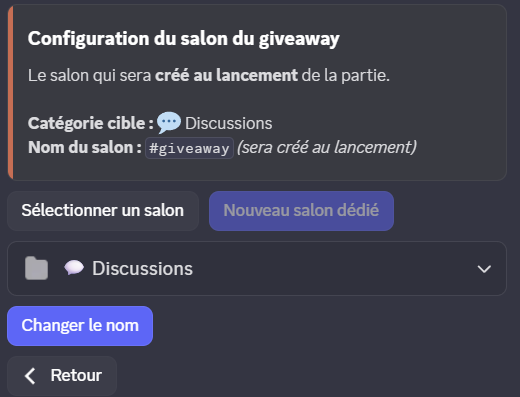
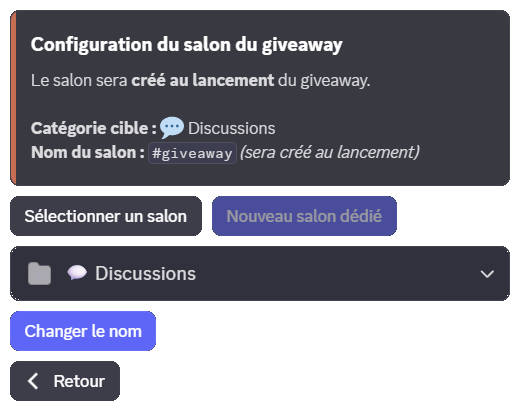
🔄 Replace image: create_new_channel.png

diff --git a/docs/2.modules/27.giveaways.md b/docs/2.modules/27.giveaways.md
@@ -192,9 +192,9 @@ Vous pouvez sélectionner un salon textuel du serveur existant pour l'envoi du g
 
 Vous pouvez demander à <@DraftBot> la création d'un salon lors de la publication du giveaway, en cliquant sur le bouton "Nouveau salon dédié".
 
-Vous pouvez alors définir le nom du salon ainsi que sa catégorie.
+Vous pouvez alors définir le nom du salon ainsi que sa catégorie à l'aide du sélecteur et du bouton dédié.
 
-<image configuration>
+![Création d'un salon lors de la publication du giveaway](../assets/giveaways/create_new_channel.png)
 
 ### Organisateur
 
